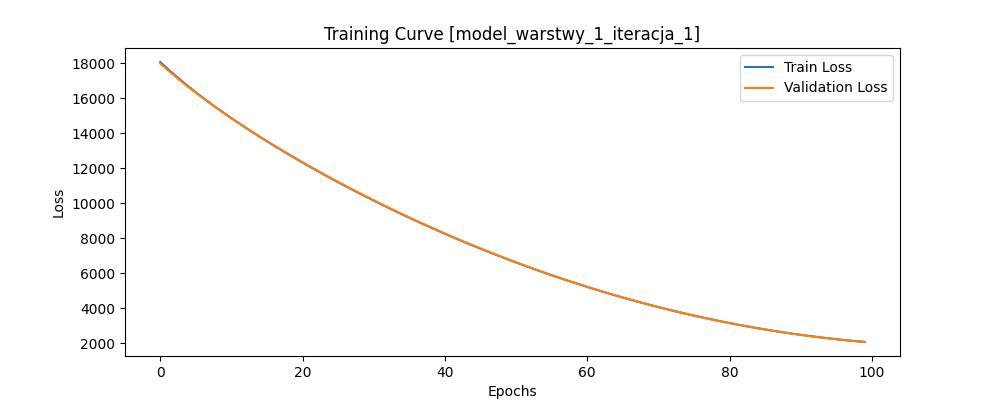
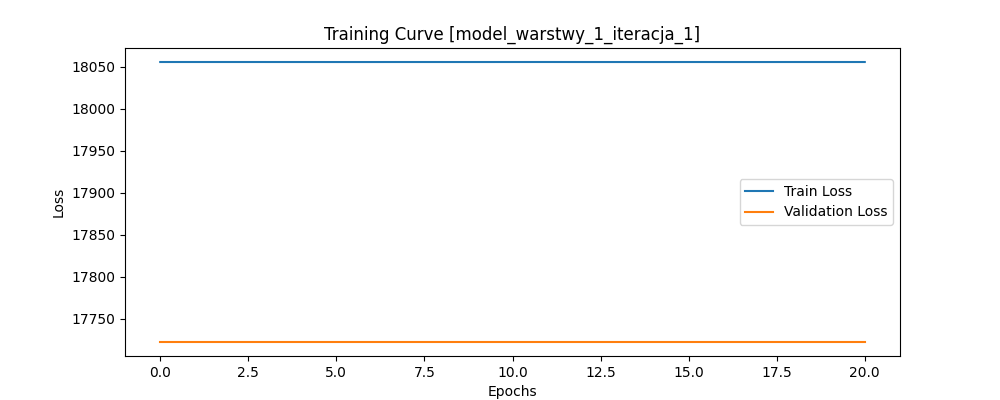
Zmiany v4

diff --git a/Symulowane_wyżarzanie.py b/Symulowane_wyżarzanie.py
@@ -5,100 +5,112 @@ import os
 import time
 from datetime import datetime
 
+# Pobranie ścieżki roboczej pliku wykonywanego
 wd = os.path.dirname(os.path.realpath(__file__))
-dane1 = pd.read_excel(wd+'/dane/Dane_TSP_48.xlsx', index_col= 0, header = 0)
-dane2 = pd.read_excel(wd+'/dane/Dane_TSP_76.xlsx', index_col= 0, header = 0)
-dane3 = pd.read_excel(wd+'/dane/Dane_TSP_127.xlsx', index_col= 0, header = 0)
+
+# Wczytanie danych z plików Excel do tablic NumPy
+dane1 = pd.read_excel(wd+'/dane/Dane_TSP_48.xlsx', index_col=0, header=0)
+dane2 = pd.read_excel(wd+'/dane/Dane_TSP_76.xlsx', index_col=0, header=0)
+dane3 = pd.read_excel(wd+'/dane/Dane_TSP_127.xlsx', index_col=0, header=0)
+
+# Konwersja danych do macierzy NumPy
 dane1 = np.array(dane1)
 dane2 = np.array(dane2)
-np.fill_diagonal(dane2,0) 
+np.fill_diagonal(dane2, 0)  # Zerowanie przekątnej (dystans z miasta do siebie samego)
 dane3 = np.array(dane3)
 
+# Funkcja obliczająca długość trasy na podstawie macierzy odległości
 def path_length(route, dist_matrix):
     length = sum(dist_matrix[route[i], route[i + 1]] for i in range(len(route) - 1))
-    length += dist_matrix[route[-1], route[0]]  #Powrót do miasta startowego
+    length += dist_matrix[route[-1], route[0]]  # Dodanie dystansu powrotu do miasta startowego
     return length
 
+# Funkcja generująca nową trasę przez zamianę miejscami dwóch losowych miast
 def swap(path):
     new_path = path.copy()
-    i, j = random.sample(range(len(path)), 2)
-    new_path[i], new_path[j] = new_path[j], new_path[i]
+    i, j = random.sample(range(len(path)), 2)  # Losowanie dwóch różnych indeksów
+    new_path[i], new_path[j] = new_path[j], new_path[i]  # Zamiana miast
     return new_path
 
+# Funkcja generująca nową trasę przez odwrócenie fragmentu ścieżki (metoda Two-Opt)
 def two_opt(path):
     new_path = path.copy()
-    i, j = sorted(random.sample(range(len(path)), 2))
-    new_path[i:j+1] = reversed(new_path[i:j+1])
+    i, j = sorted(random.sample(range(len(path)), 2))  # Losowanie zakresu do odwrócenia
+    new_path[i:j+1] = reversed(new_path[i:j+1])  # Odwrócenie fragmentu
     return new_path
 
+# Funkcja generująca nową trasę przez wstawienie jednego miasta w inne miejsce
 def insert(path):
     new_path = path.copy()
-    i, j = random.sample(range(len(new_path)), 2)
-    city = new_path.pop(i)
-    new_path.insert(j, city)
+    i, j = random.sample(range(len(new_path)), 2)  # Losowanie dwóch różnych indeksów
+    city = new_path.pop(i)  # Usunięcie miasta z jednego miejsca
+    new_path.insert(j, city)  # Wstawienie go w inne miejsce
     return new_path
 
-# Algorytm symulowanego wyżarzania
+# Główna funkcja implementująca algorytm symulowanego wyżarzania
 def symulowane_wyżarzanie(
         macierz, epoki=800, temperatura_poczatkowa=10000, schladzanie=0.99,
         liczba_prob=1000, liczba_iteracji=50, metoda_ruchu=insert, wd="."
     ):
-    liczba_miast = len(macierz)
-    # Tworzenie folderu wynikowego, jeśli nie istnieje
-    folder_wyniki = os.path.join(wd, "wyniki_wyzarzanie")
-    os.makedirs(folder_wyniki, exist_ok=True)
+    liczba_miast = len(macierz)  # Liczba miast do odwiedzenia
+    folder_wyniki = os.path.join(wd, "wyniki_wyzarzanie")  # Ścieżka do zapisu wyników
+    os.makedirs(folder_wyniki, exist_ok=True)  # Tworzenie folderu, jeśli nie istnieje
 
-    wszystkie_rozwiazania = []
-    start_time = time.time()  # Pomiar czasu działania
+    wszystkie_rozwiazania = []  # Lista przechowująca wyniki dla każdej iteracji
+    start_time = time.time()  # Rozpoczęcie pomiaru czasu działania algorytmu
 
+    # Pętla dla wielu iteracji algorytmu (w celu znalezienia najlepszego rozwiązania globalnie)
     for i in range(liczba_iteracji):       
-        # Inicjalizacja
-        aktualna_trasa = list(range(liczba_miast))
-        random.shuffle(aktualna_trasa)
-        najlepsza_trasa = aktualna_trasa.copy()
-        najlepszy_dystans = path_length(najlepsza_trasa, macierz)
+        # Inicjalizacja trasy i wartości początkowych
+        aktualna_trasa = list(range(liczba_miast))  # Początkowa trasa (kolejność miast)
+        random.shuffle(aktualna_trasa)  # Losowe permutowanie trasy
+        najlepsza_trasa = aktualna_trasa.copy()  # Najlepsza trasa na danej iteracji
+        najlepszy_dystans = path_length(najlepsza_trasa, macierz)  # Najlepszy dystans
 
-        temperatura = temperatura_poczatkowa
+        temperatura = temperatura_poczatkowa  # Ustawienie temperatury początkowej
 
+        # Pętla dla epok (temperatura maleje w każdej epoce)
         for epoka in range(epoki):
+            # Pętla dla prób w ramach jednej epoki
             for _ in range(liczba_prob):
-                nowa_trasa = metoda_ruchu(aktualna_trasa)
-                aktualny_dystans = path_length(aktualna_trasa, macierz)
-                nowy_dystans = path_length(nowa_trasa, macierz)
+                nowa_trasa = metoda_ruchu(aktualna_trasa)  # Generowanie nowej trasy
+                aktualny_dystans = path_length(aktualna_trasa, macierz)  # Dystans aktualnej trasy
+                nowy_dystans = path_length(nowa_trasa, macierz)  # Dystans nowej trasy
 
                 # Kryterium akceptacji nowego rozwiązania
-                if nowy_dystans < aktualny_dystans:
+                if nowy_dystans < aktualny_dystans:  # Jeśli nowy dystans jest mniejszy, akceptujemy
                     aktualna_trasa = nowa_trasa
                 else:
-                    delta = nowy_dystans - aktualny_dystans
-                    prawdopodobienstwo = np.exp(-delta / temperatura)
-                    if random.random() < prawdopodobienstwo:
+                    delta = nowy_dystans - aktualny_dystans  # Różnica między dystansami
+                    prawdopodobienstwo = np.exp(-delta / temperatura)  # Obliczenie prawdopodobieństwa akceptacji
+                    if random.random() < prawdopodobienstwo:  # Losowa decyzja o akceptacji
                         aktualna_trasa = nowa_trasa
 
-                # Aktualizacja najlepszego rozwiązania
+                # Aktualizacja najlepszego rozwiązania w ramach iteracji
                 if path_length(aktualna_trasa, macierz) < najlepszy_dystans:
                     najlepsza_trasa = aktualna_trasa.copy()
                     najlepszy_dystans = path_length(najlepsza_trasa, macierz)
 
-            temperatura *= schladzanie
+            temperatura *= schladzanie  # Obniżenie temperatury (proces schładzania)
 
+        # Zapisanie trasy w formacie od 1 (dla łatwiejszej interpretacji)
         najlepsza_trasa_od_1 = list(map(lambda x: x + 1, najlepsza_trasa))
-        najlepsza_trasa_od_1.append(najlepsza_trasa_od_1[0])
+        najlepsza_trasa_od_1.append(najlepsza_trasa_od_1[0])  # Dodanie powrotu do miasta startowego
         wszystkie_rozwiazania.append((najlepszy_dystans, najlepsza_trasa_od_1))
 
-    end_time = time.time()  # Koniec pomiaru czasu działania
-    czas_dzialania = end_time - start_time
+    end_time = time.time()  # Koniec pomiaru czasu działania algorytmu
+    czas_dzialania = end_time - start_time  # Obliczenie czasu działania algorytmu
 
-    # Obliczanie średniej wartości dystansu
+    # Obliczanie średniego dystansu
     srednia_wartosc_dystansu = np.mean([dystans for dystans, _ in wszystkie_rozwiazania])
 
-    # Znalezienie najlepszego rozwiązania
+    # Znalezienie najlepszego rozwiązania globalnego
     globalnie_najlepszy_dystans, globalnie_najlepsza_trasa = min(wszystkie_rozwiazania, key=lambda x: x[0])
 
-    # Nazwa pliku wynikowego z dynamiczną datą i godziną
+    # Przygotowanie nazwy pliku wynikowego z dynamiczną datą i godziną
     nazwa_pliku = os.path.join(folder_wyniki, f"wyniki_symulacji_{datetime.now().strftime('%Y%m%d_%H%M%S')}.txt")
 
-    # Parametry do zapisania w nagłówku
+    # Przygotowanie nagłówka z parametrami symulacji
     naglowek = (f"\nWyniki symulowanego wyżarzania\n"
                 f"Metoda ruchu: {metoda_ruchu.__name__}\n"
                 f"Liczba epok: {epoki}\n"
@@ -120,9 +132,11 @@ def symulowane_wyżarzanie(
         plik.write(f"Średnia wartość dystansu z {liczba_iteracji} iteracji: {srednia_wartosc_dystansu:.2f}\n")
         plik.write(f"Czas działania algorytmu: {czas_dzialania:.2f} sekund\n")
 
+    # Informacja o zapisaniu wyników
     print(f"Wyniki zostały zapisane w pliku '{nazwa_pliku}'.")
 
-    return globalnie_najlepsza_trasa, globalnie_najlepszy_dystans
+    # Zwrot najlepszego rozwiązania
+    return globalnie_najlepsza_trasa, globalnie_najlepszy_dystans 
 
 
 # #Dane dla 48
@@ -240,41 +254,41 @@ def symulowane_wyżarzanie(
 #         liczba_prob=1000, liczba_iteracji=100, metoda_ruchu=two_opt, wd=".")
 
 
-symulowane_wyżarzanie(dane3, epoki=10, temperatura_poczatkowa=10000, schladzanie=0.99,
-        liczba_prob=1000, liczba_iteracji=10, metoda_ruchu=two_opt, wd=".")
-symulowane_wyżarzanie(dane3, epoki=25, temperatura_poczatkowa=10000, schladzanie=0.99,
-        liczba_prob=1000, liczba_iteracji=10, metoda_ruchu=two_opt, wd=".")
-symulowane_wyżarzanie(dane3, epoki=100, temperatura_poczatkowa=10000, schladzanie=0.99,
-        liczba_prob=1000, liczba_iteracji=10, metoda_ruchu=two_opt, wd=".")
-symulowane_wyżarzanie(dane3, epoki=1000, temperatura_poczatkowa=10000, schladzanie=0.99,
-        liczba_prob=1000, liczba_iteracji=10, metoda_ruchu=two_opt, wd=".")
+# symulowane_wyżarzanie(dane3, epoki=10, temperatura_poczatkowa=10000, schladzanie=0.99,
+#         liczba_prob=1000, liczba_iteracji=10, metoda_ruchu=two_opt, wd=".")
+# symulowane_wyżarzanie(dane3, epoki=25, temperatura_poczatkowa=10000, schladzanie=0.99,
+#         liczba_prob=1000, liczba_iteracji=10, metoda_ruchu=two_opt, wd=".")
+# symulowane_wyżarzanie(dane3, epoki=100, temperatura_poczatkowa=10000, schladzanie=0.99,
+#         liczba_prob=1000, liczba_iteracji=10, metoda_ruchu=two_opt, wd=".")
+# symulowane_wyżarzanie(dane3, epoki=1000, temperatura_poczatkowa=10000, schladzanie=0.99,
+#         liczba_prob=1000, liczba_iteracji=10, metoda_ruchu=two_opt, wd=".")
 
 
-symulowane_wyżarzanie(dane3, epoki=800, temperatura_poczatkowa=10000, schladzanie=0.8,
-        liczba_prob=1000, liczba_iteracji=10, metoda_ruchu=two_opt, wd=".")
-symulowane_wyżarzanie(dane3, epoki=800, temperatura_poczatkowa=10000, schladzanie=0.9,
-        liczba_prob=1000, liczba_iteracji=10, metoda_ruchu=two_opt, wd=".")
-symulowane_wyżarzanie(dane3, epoki=800, temperatura_poczatkowa=10000, schladzanie=0.95,
-        liczba_prob=1000, liczba_iteracji=10, metoda_ruchu=two_opt, wd=".")
-symulowane_wyżarzanie(dane3, epoki=800, temperatura_poczatkowa=10000, schladzanie=0.99,
-        liczba_prob=1000, liczba_iteracji=10, metoda_ruchu=two_opt, wd=".")
-
-
-
-symulowane_wyżarzanie(dane3, epoki=800, temperatura_poczatkowa=10000, schladzanie=0.99,
-        liczba_prob=1000, liczba_iteracji=10, metoda_ruchu=swap, wd=".")
-symulowane_wyżarzanie(dane3, epoki=800, temperatura_poczatkowa=10000, schladzanie=0.99,
-        liczba_prob=1000, liczba_iteracji=10, metoda_ruchu=two_opt, wd=".")
-symulowane_wyżarzanie(dane3, epoki=800, temperatura_poczatkowa=10000, schladzanie=0.99,
-        liczba_prob=1000, liczba_iteracji=10, metoda_ruchu=insert, wd=".")
+# symulowane_wyżarzanie(dane3, epoki=800, temperatura_poczatkowa=10000, schladzanie=0.8,
+#         liczba_prob=1000, liczba_iteracji=10, metoda_ruchu=two_opt, wd=".")
+# symulowane_wyżarzanie(dane3, epoki=800, temperatura_poczatkowa=10000, schladzanie=0.9,
+#         liczba_prob=1000, liczba_iteracji=10, metoda_ruchu=two_opt, wd=".")
+# symulowane_wyżarzanie(dane3, epoki=800, temperatura_poczatkowa=10000, schladzanie=0.95,
+#         liczba_prob=1000, liczba_iteracji=10, metoda_ruchu=two_opt, wd=".")
+# symulowane_wyżarzanie(dane3, epoki=800, temperatura_poczatkowa=10000, schladzanie=0.99,
+#         liczba_prob=1000, liczba_iteracji=10, metoda_ruchu=two_opt, wd=".")
 
 
 
-symulowane_wyżarzanie(dane3, epoki=800, temperatura_poczatkowa=1000, schladzanie=0.99,
-        liczba_prob=1000, liczba_iteracji=10, metoda_ruchu=two_opt, wd=".")
-symulowane_wyżarzanie(dane3, epoki=800, temperatura_poczatkowa=5000, schladzanie=0.99,
-        liczba_prob=1000, liczba_iteracji=10, metoda_ruchu=two_opt, wd=".")
-symulowane_wyżarzanie(dane3, epoki=800, temperatura_poczatkowa=10000, schladzanie=0.99,
-        liczba_prob=1000, liczba_iteracji=10, metoda_ruchu=two_opt, wd=".")
-symulowane_wyżarzanie(dane3, epoki=800, temperatura_poczatkowa=20000, schladzanie=0.99,
-        liczba_prob=1000, liczba_iteracji=10, metoda_ruchu=two_opt, wd=".")
+# symulowane_wyżarzanie(dane3, epoki=800, temperatura_poczatkowa=10000, schladzanie=0.99,
+#         liczba_prob=1000, liczba_iteracji=10, metoda_ruchu=swap, wd=".")
+# symulowane_wyżarzanie(dane3, epoki=800, temperatura_poczatkowa=10000, schladzanie=0.99,
+#         liczba_prob=1000, liczba_iteracji=10, metoda_ruchu=two_opt, wd=".")
+# symulowane_wyżarzanie(dane3, epoki=800, temperatura_poczatkowa=10000, schladzanie=0.99,
+#         liczba_prob=1000, liczba_iteracji=10, metoda_ruchu=insert, wd=".")
+
+
+
+# symulowane_wyżarzanie(dane3, epoki=800, temperatura_poczatkowa=1000, schladzanie=0.99,
+#         liczba_prob=1000, liczba_iteracji=10, metoda_ruchu=two_opt, wd=".")
+# symulowane_wyżarzanie(dane3, epoki=800, temperatura_poczatkowa=5000, schladzanie=0.99,
+#         liczba_prob=1000, liczba_iteracji=10, metoda_ruchu=two_opt, wd=".")
+# symulowane_wyżarzanie(dane3, epoki=800, temperatura_poczatkowa=10000, schladzanie=0.99,
+#         liczba_prob=1000, liczba_iteracji=10, metoda_ruchu=two_opt, wd=".")
+# symulowane_wyżarzanie(dane3, epoki=800, temperatura_poczatkowa=20000, schladzanie=0.99,
+#         liczba_prob=1000, liczba_iteracji=10, metoda_ruchu=two_opt, wd=".")

diff --git a/SSN/SSN.py b/SSN/SSN.py
@@ -2,6 +2,7 @@ import numpy as np
 import pandas as pd
 import os
 import matplotlib.pyplot as plt
+import keras as kr
 from sklearn.model_selection import train_test_split
 from sklearn.metrics import mean_absolute_error, mean_squared_error, r2_score
 from sklearn.preprocessing import StandardScaler, LabelEncoder
@@ -79,10 +80,10 @@ print(data.describe())
 # Funkcja budująca i trenująca model
 def train_model(X, y, 
                 num_layers=1, neurons_per_layer=14, 
-                activation='relu',
+                activation='tanh',
                 optimizer='adam', learning_rate=0.001, 
-                batch_size=32, epochs=50, 
-                test_size=0.2, validation_split=0.1,
+                batch_size=32, epochs=100, 
+                test_size=0.1, validation_split=0.1,
                 callbacks=None, log_results=True, experiment_name="default"):
     """
     Trenuje model sieci neuronowej z różnymi parametrami.
@@ -122,7 +123,7 @@ def train_model(X, y,
     model.add(Input(shape=(X_train.shape[1],)))
     for _ in range(num_layers - 1): 
         model.add(Dense(neurons_per_layer, activation=activation))
-    model.add(Dense(1, activation='linear'))
+    model.add(Dense(1, activation=kr.activations.relu))
     
     # Kompilacja modelu
     if optimizer == 'adam':
@@ -307,6 +308,6 @@ def param_test(params, param_type = 1):
     return True
 
 
-layers_num = [15,20]  #Lista liczby warstw do testu
+layers_num = [100,120,150]  
 
-param_test(layers_num, 2)
+param_test(layers_num, 1)
